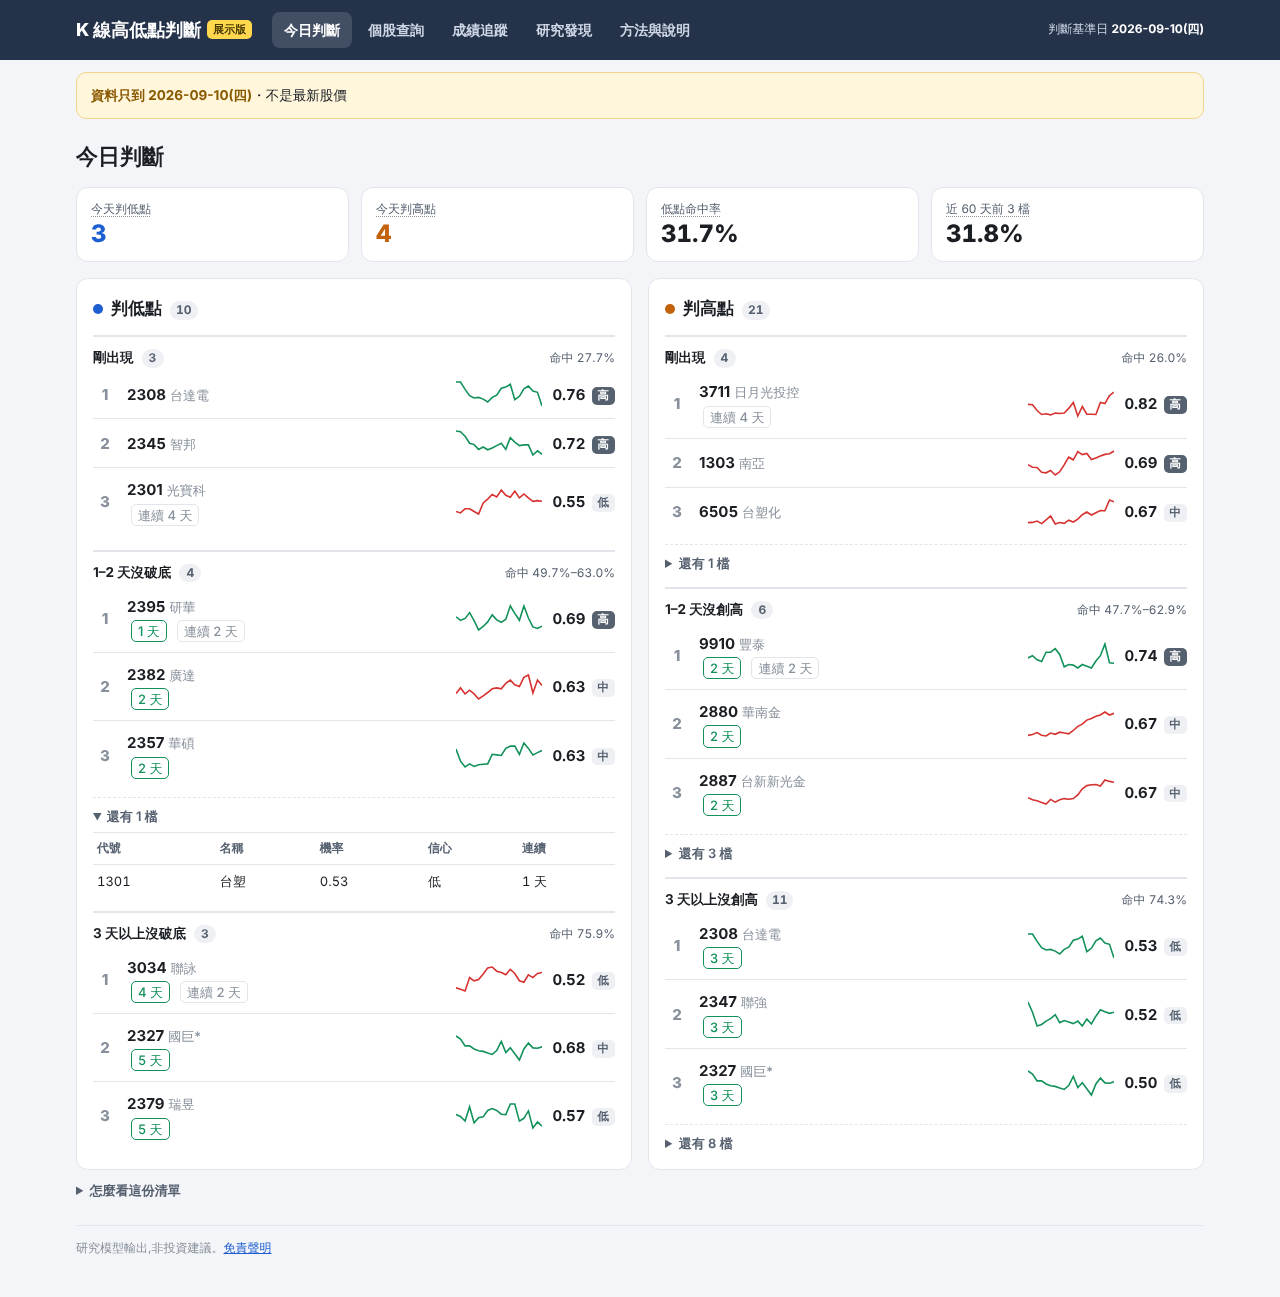
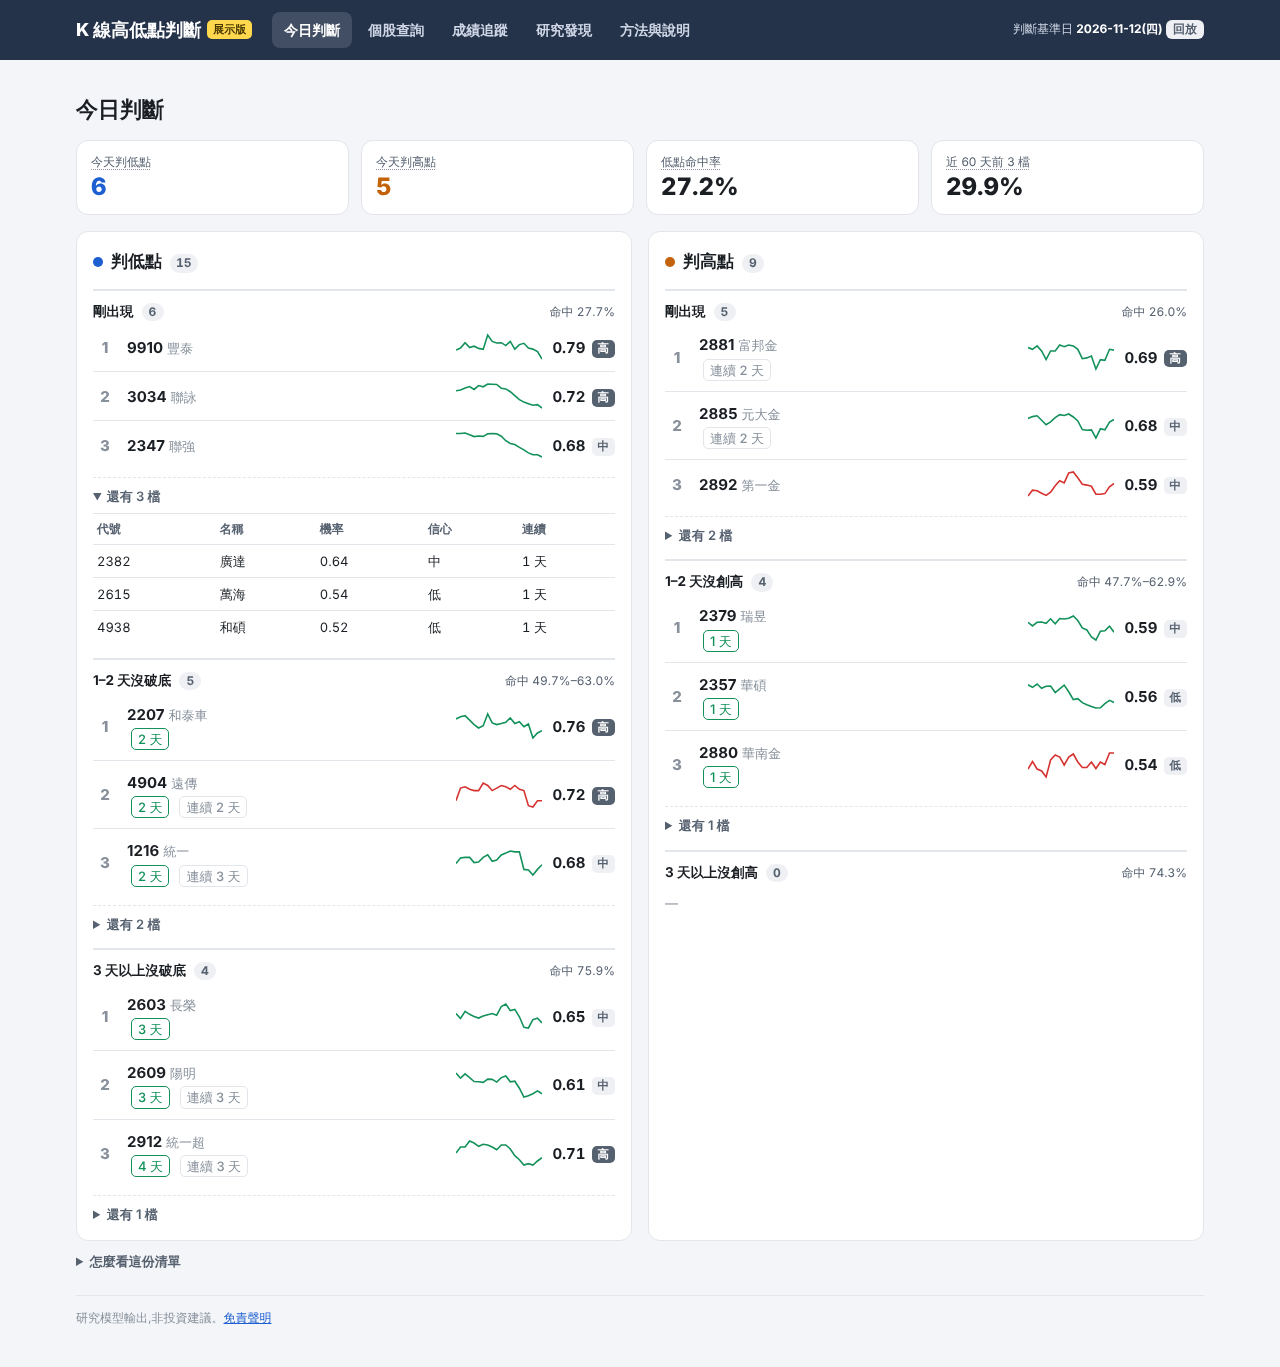
網頁系統:資料更新到 2026-11-12、全部上市 / 上櫃 / ETF 可查;重拍截圖(新增精材)
- 資料:Yahoo 下載到 2026-11-12;回放補齊 09-11 ~ 11-12 共 41 天的判斷與答案;今年 168 天補算上櫃與 ETF 的判斷(原本的存檔不動)
- 截圖:每頁桌機 + 手機重拍,新增 stock_otc_3374(精材)

Claude-Session: https://claude.ai/code/session_01S1UqReMe4H9UamAy1a12RW

diff --git a/method_kline_peak/web/screenshots/shoot.js b/method_kline_peak/web/screenshots/shoot.js
@@ -1,7 +1,7 @@
 // 用真資料截圖:node screenshots/shoot.js <網址,例如 http://localhost:8765> <輸出資料夾>
 const {chromium} = require('playwright'); const path = require('path');
 const base = process.argv[2], dir = process.argv[3];
-const pages = [['today', 'today'], ['stock-8046', 'stock_pool_8046'], ['stock-2618', 'stock_outpool_2618'], ['track', 'track'], ['findings', 'findings'], ['about', 'about']];
+const pages = [['today', 'today'], ['stock-8046', 'stock_pool_8046'], ['stock-3374', 'stock_otc_3374'], ['stock-2618', 'stock_outpool_2618'], ['track', 'track'], ['findings', 'findings'], ['about', 'about']];
 (async () => {
   const b = await chromium.launch(); const errs = [];
   for (const [vw, scale, opt, scheme] of [['desktop', 1, {width: 1280, height: 900}, 'light'], ['mobile', 2, {width: 390, height: 844}, 'light']]) {
